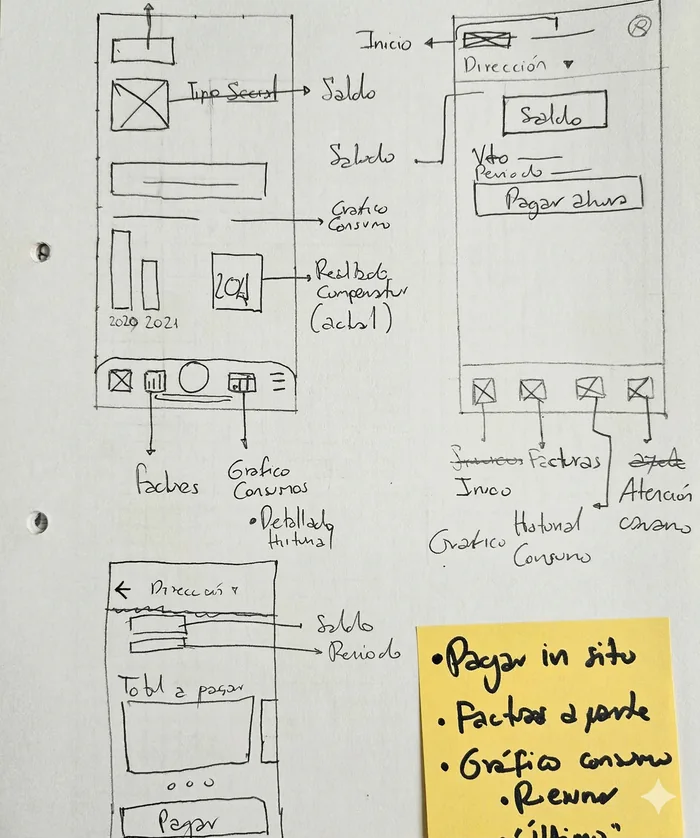
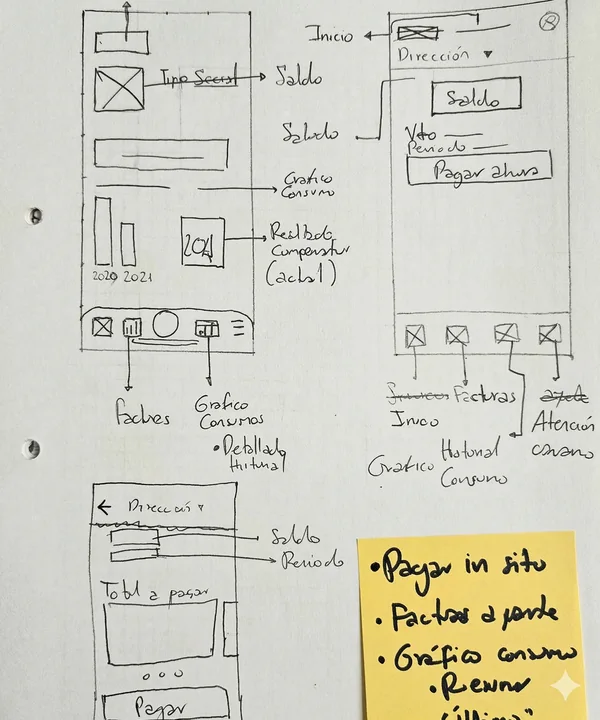
update

diff --git a/edelap.html b/edelap.html
@@ -49,7 +49,7 @@
 </script>
 <link rel="preload" href="assets/fonts/geist-var-latin.woff2" as="font" type="font/woff2" crossorigin>
 <link rel="preload" href="assets/fonts/inter-var-latin.woff2" as="font" type="font/woff2" crossorigin>
-<link rel="stylesheet" href="styles.css?v=16">
+<link rel="stylesheet" href="styles.css?v=17">
 <link rel="preload" href="assets/ed-shader-poster.webp" as="image" type="image/webp">
 </head>
 <body>
@@ -140,9 +140,9 @@
       <article class="ed-method" id="ed-m-sort">
         <div class="ed-method-head reveal"><p class="label">Card sorting</p><h3 class="t-h3">The menu didn’t match how people group things</h3><p>39 participants sorted 12 account features into 6 categories. Their groups didn’t match the existing navigation, which backed a full rework. Bills and payments was the clearest group: every participant put “Download invoice” there.</p></div>
         <figure class="ed-fig reveal"><div class="scroll-x ed-matrix-wrap" data-scroll data-label="Card sorting results" style="--min-mobile:760px">
-              <table class="ed-matrix"><caption class="sr-only">Card sorting results: share of participants who put each feature in each category</caption>
-              <thead><tr><th scope="col">Feature</th><th scope="col">Supply</th><th scope="col">Bills &amp; Payments</th><th scope="col">Technical Support</th><th scope="col">Customer Service</th><th scope="col">Energy Advisor</th><th scope="col">Cost Simulator</th></tr></thead><tbody><tr><th scope="row">Consumption</th><td style="--v:0.71">71%</td><td><span class="sr-only">No value</span></td><td><span class="sr-only">No value</span></td><td><span class="sr-only">No value</span></td><td style="--v:0.29">29%</td><td><span class="sr-only">No value</span></td></tr><tr><th scope="row">Supply</th><td style="--v:0.71">71%</td><td><span class="sr-only">No value</span></td><td style="--v:0.29">29%</td><td><span class="sr-only">No value</span></td><td><span class="sr-only">No value</span></td><td><span class="sr-only">No value</span></td></tr><tr><th scope="row">Address &amp; ID</th><td style="--v:0.43">43%</td><td><span class="sr-only">No value</span></td><td style="--v:0.14">14%</td><td style="--v:0.29">29%</td><td><span class="sr-only">No value</span></td><td style="--v:0.14">14%</td></tr><tr><th scope="row">Account Statement</th><td style="--v:0.43">43%</td><td><span class="sr-only">No value</span></td><td style="--v:0.14">14%</td><td style="--v:0.43">43%</td><td><span class="sr-only">No value</span></td><td><span class="sr-only">No value</span></td></tr><tr><th scope="row">Amount Due (Total)</th><td style="--v:0.43">43%</td><td style="--v:0.43">43%</td><td><span class="sr-only">No value</span></td><td><span class="sr-only">No value</span></td><td style="--v:0.14">14%</td><td><span class="sr-only">No value</span></td></tr><tr><th scope="row">Download Invoice</th><td><span class="sr-only">No value</span></td><td style="--v:1.00">100%</td><td><span class="sr-only">No value</span></td><td><span class="sr-only">No value</span></td><td><span class="sr-only">No value</span></td><td><span class="sr-only">No value</span></td></tr><tr><th scope="row">Digital Invoice</th><td><span class="sr-only">No value</span></td><td style="--v:0.86">86%</td><td><span class="sr-only">No value</span></td><td><span class="sr-only">No value</span></td><td style="--v:0.14">14%</td><td><span class="sr-only">No value</span></td></tr><tr><th scope="row">Direct Debit</th><td style="--v:0.14">14%</td><td style="--v:0.71">71%</td><td><span class="sr-only">No value</span></td><td style="--v:0.14">14%</td><td><span class="sr-only">No value</span></td><td><span class="sr-only">No value</span></td></tr><tr><th scope="row">Last Invoice</th><td style="--v:0.14">14%</td><td style="--v:0.71">71%</td><td><span class="sr-only">No value</span></td><td><span class="sr-only">No value</span></td><td><span class="sr-only">No value</span></td><td style="--v:0.14">14%</td></tr><tr><th scope="row">Last Invoice Period</th><td style="--v:0.14">14%</td><td style="--v:0.71">71%</td><td><span class="sr-only">No value</span></td><td style="--v:0.14">14%</td><td><span class="sr-only">No value</span></td><td><span class="sr-only">No value</span></td></tr><tr><th scope="row">Amount Due by Cutoff Date</th><td style="--v:0.29">29%</td><td style="--v:0.57">57%</td><td><span class="sr-only">No value</span></td><td style="--v:0.14">14%</td><td><span class="sr-only">No value</span></td><td><span class="sr-only">No value</span></td></tr><tr><th scope="row">Consumption Chart</th><td style="--v:0.29">29%</td><td><span class="sr-only">No value</span></td><td><span class="sr-only">No value</span></td><td><span class="sr-only">No value</span></td><td style="--v:0.43">43%</td><td style="--v:0.29">29%</td></tr></tbody></table>
-            </div><figcaption>Share of participants who put each feature in each category. The stronger the tint, the more people agreed.</figcaption></figure>
+              <table class="ed-matrix ed-matrix--figma"><caption class="sr-only">Card sorting results: share of participants who put each feature in each category</caption>
+              <thead><tr><td></td><th scope="col">Supply</th><th scope="col">Bills &amp; Payments</th><th scope="col">Technical Support</th><th scope="col">Customer Service</th><th scope="col">Energy Advisor</th><th scope="col">Cost Simulator</th></tr></thead><tbody><tr><th scope="row">Consumption</th><td class="is-top">71%</td><td class="is-empty"><span class="sr-only">No value</span></td><td class="is-empty"><span class="sr-only">No value</span></td><td class="is-empty"><span class="sr-only">No value</span></td><td>29%</td><td class="is-empty"><span class="sr-only">No value</span></td></tr><tr><th scope="row">Supply</th><td class="is-top">71%</td><td class="is-empty"><span class="sr-only">No value</span></td><td>29%</td><td class="is-empty"><span class="sr-only">No value</span></td><td class="is-empty"><span class="sr-only">No value</span></td><td class="is-empty"><span class="sr-only">No value</span></td></tr><tr><th scope="row">Address &amp; ID</th><td class="is-top">43%</td><td class="is-empty"><span class="sr-only">No value</span></td><td>14%</td><td>29%</td><td class="is-empty"><span class="sr-only">No value</span></td><td>14%</td></tr><tr><th scope="row">Account Statement</th><td class="is-tie">43%</td><td class="is-empty"><span class="sr-only">No value</span></td><td>14%</td><td class="is-tie">43%</td><td class="is-empty"><span class="sr-only">No value</span></td><td class="is-empty"><span class="sr-only">No value</span></td></tr><tr><th scope="row">Amount Due (Total)</th><td class="is-tie">43%</td><td class="is-tie">43%</td><td class="is-empty"><span class="sr-only">No value</span></td><td class="is-empty"><span class="sr-only">No value</span></td><td>14%</td><td class="is-empty"><span class="sr-only">No value</span></td></tr><tr><th scope="row">Download Invoice</th><td class="is-empty"><span class="sr-only">No value</span></td><td class="is-top">100%</td><td class="is-empty"><span class="sr-only">No value</span></td><td class="is-empty"><span class="sr-only">No value</span></td><td class="is-empty"><span class="sr-only">No value</span></td><td class="is-empty"><span class="sr-only">No value</span></td></tr><tr><th scope="row">Digital Invoice</th><td class="is-empty"><span class="sr-only">No value</span></td><td class="is-top">86%</td><td class="is-empty"><span class="sr-only">No value</span></td><td class="is-empty"><span class="sr-only">No value</span></td><td>14%</td><td class="is-empty"><span class="sr-only">No value</span></td></tr><tr><th scope="row">Direct Debit</th><td>14%</td><td class="is-top">71%</td><td class="is-empty"><span class="sr-only">No value</span></td><td>14%</td><td class="is-empty"><span class="sr-only">No value</span></td><td class="is-empty"><span class="sr-only">No value</span></td></tr><tr><th scope="row">Last Invoice</th><td>14%</td><td class="is-top">71%</td><td class="is-empty"><span class="sr-only">No value</span></td><td class="is-empty"><span class="sr-only">No value</span></td><td class="is-empty"><span class="sr-only">No value</span></td><td>14%</td></tr><tr><th scope="row">Last Invoice Period</th><td>14%</td><td class="is-top">71%</td><td class="is-empty"><span class="sr-only">No value</span></td><td>14%</td><td class="is-empty"><span class="sr-only">No value</span></td><td class="is-empty"><span class="sr-only">No value</span></td></tr><tr><th scope="row">Amount Due by Cutoff Date</th><td>29%</td><td class="is-top">57%</td><td class="is-empty"><span class="sr-only">No value</span></td><td>14%</td><td class="is-empty"><span class="sr-only">No value</span></td><td class="is-empty"><span class="sr-only">No value</span></td></tr><tr><th scope="row">Consumption Chart</th><td>29%</td><td class="is-empty"><span class="sr-only">No value</span></td><td class="is-empty"><span class="sr-only">No value</span></td><td class="is-empty"><span class="sr-only">No value</span></td><td class="is-top">43%</td><td>29%</td></tr></tbody></table>
+            </div><figcaption>Share of participants per category. Blue marks each feature’s top category; light blue, a tie.</figcaption></figure>
       </article>
 
       <article class="ed-method" id="ed-m-heur">
@@ -199,7 +199,7 @@
           <figcaption>Paper first: where the balance, the payment and the consumption chart would sit.</figcaption>
         </figure>
         <figure class="ed-fig reveal" style="--d:80ms">
-          <div class="ed-wires" data-wires><svg role="img" aria-label="Wireframes: three mobile screens and the desktop version, in grey with green primary actions" class="ed-wire-svg" viewBox="688 140 548 690" fill="none" xmlns="http://www.w3.org/2000/svg" xmlns:xlink="http://www.w3.org/1999/xlink">
+          <div class="ed-wires" data-wires><svg role="img" aria-label="Wireframes: three mobile screens and the desktop version, in grey with green primary actions" class="ed-wire-svg" viewBox="708 156 508 668" fill="none" xmlns="http://www.w3.org/2000/svg" xmlns:xlink="http://www.w3.org/1999/xlink">
 
 <g id="wf-Edelap_Case_Study" clip-path="url(#wf-clip0_0_1)">
 
@@ -566,6 +566,6 @@
 <script src="thumbs.js?v=7" defer></script>
 <script src="hero-shader.js?v=3" defer></script>
 <script src="section-shader.js?v=3" defer></script>
-<script src="edelap.js?v=2" defer></script>
+<script src="edelap.js?v=1" defer></script>
 </body>
 </html>

diff --git a/styles.css b/styles.css
@@ -2050,3 +2050,30 @@ body:has(#view-edelap) .contact-email:hover { border-color: var(--ed-sky-lite); 
 /* consumption cards: sized to their content, like the Figma component */
 .ed-cons { grid-template-columns: repeat(2, max-content); }
 .ed-con { width: 168px; padding: 16px 18px; }
+
+/* ---------- Edelap, round 3 ---------- */
+/* card sorting, as in the Figma: a plain grid, white cells, very light grey for empty ones, blue only for each row's top answer */
+.ed-matrix--figma { border-collapse: collapse; border-spacing: 0; font: 400 14px/1.3 var(--font-body); }
+.ed-matrix--figma thead td { background: #fff; }
+.ed-matrix--figma thead th { padding: 14px 12px; text-align: left; font: 600 14px/1.3 var(--font-body); color: var(--text-strong); background: #fff; }
+.ed-matrix--figma tbody th { padding: 0 16px; height: 46px; font: 500 14px/1.3 var(--font-body); color: var(--text-strong); background: #fff; }
+.ed-matrix--figma td, .ed-matrix--figma tbody th { border-top: 1px solid #e6e8ec; }
+.ed-matrix--figma td { height: 46px; padding: 0 12px; text-align: left; border-radius: 0; color: var(--text-strong); background: #fff; box-shadow: none !important; border-left: 1px solid #e6e8ec; }
+.ed-matrix--figma td.is-empty { background: #f6f7f9; }
+.ed-matrix--figma td.is-top { background: #98beea; }
+.ed-matrix--figma td.is-tie { background: #d1e2f5; }
+.ed-matrix--figma td[style] { background: initial; }
+.ed-matrix-wrap:has(.ed-matrix--figma) { overflow: hidden; border-radius: 16px; box-shadow: 0 0 0 1px #e6e8ec; }
+
+/* paper and wireframes: same media height, captions on the same line */
+.ed-paper { grid-template-columns: auto auto; justify-content: center; align-items: start; gap: 24px clamp(40px, 6vw, 96px); }
+.ed-paper > .ed-fig { width: max-content; max-width: 100%; }
+.ed-paper .ed-fig figcaption { max-width: 440px; }
+.ed-sketch img { width: auto; height: 540px; max-height: none; max-width: 100%; object-fit: initial; }
+.ed-wires svg { width: auto; height: 540px; max-height: none; max-width: 100%; }
+@media (max-width: 1023.98px) {
+  .ed-paper { grid-template-columns: minmax(0, 1fr); justify-items: center; }
+  .ed-paper > .ed-fig { width: 100%; }
+  .ed-sketch img, .ed-wires svg { width: 100%; height: auto; }
+}
+.ed-matrix--figma td, .ed-matrix--figma th { vertical-align: middle; } .ed-matrix--figma { table-layout: fixed; } .ed-matrix--figma tbody th, .ed-matrix--figma thead td:first-child { width: 22%; }

diff --git a/index.html b/index.html
@@ -50,7 +50,7 @@
 <link rel="preload" href="assets/fonts/geist-var-latin.woff2" as="font" type="font/woff2" crossorigin>
 <link rel="preload" href="assets/fonts/inter-var-latin.woff2" as="font" type="font/woff2" crossorigin>
 <link rel="preload" href="assets/hero-shader-poster.webp" as="image" type="image/webp">
-<link rel="stylesheet" href="styles.css?v=16">
+<link rel="stylesheet" href="styles.css?v=17">
 <script type="application/ld+json">
 {
   "@context": "https://schema.org",

diff --git a/in-progress.html b/in-progress.html
@@ -33,7 +33,7 @@
 <link rel="preload" href="assets/hero-shader-poster.webp" as="image" type="image/webp">
 <link rel="preload" href="assets/fonts/geist-var-latin.woff2" as="font" type="font/woff2" crossorigin>
 <link rel="preload" href="assets/fonts/inter-var-latin.woff2" as="font" type="font/woff2" crossorigin>
-<link rel="stylesheet" href="styles.css?v=16">
+<link rel="stylesheet" href="styles.css?v=17">
 </head>
 <body>
 <a class="skip" href="#main">Skip to content</a>

diff --git a/resume.html b/resume.html
@@ -48,7 +48,7 @@
 <link rel="preload" href="assets/fonts/geist-var-latin.woff2" as="font" type="font/woff2" crossorigin>
 <link rel="preload" href="assets/fonts/inter-var-latin.woff2" as="font" type="font/woff2" crossorigin>
 <link rel="preconnect" href="https://cdnjs.cloudflare.com" crossorigin>
-<link rel="stylesheet" href="styles.css?v=16">
+<link rel="stylesheet" href="styles.css?v=17">
 </head>
 <body>
 <a class="skip" href="#main">Skip to content</a>

diff --git a/conduiit.html b/conduiit.html
@@ -49,7 +49,7 @@
 </script>
 <link rel="preload" href="assets/fonts/geist-var-latin.woff2" as="font" type="font/woff2" crossorigin>
 <link rel="preload" href="assets/fonts/inter-var-latin.woff2" as="font" type="font/woff2" crossorigin>
-<link rel="stylesheet" href="styles.css?v=16">
+<link rel="stylesheet" href="styles.css?v=17">
 <link rel="preload" href="assets/cd-shader-poster.webp" as="image" type="image/webp">
 </head>
 <body>

diff --git a/policy-manager.html b/policy-manager.html
@@ -49,7 +49,7 @@
 </script>
 <link rel="preload" href="assets/fonts/geist-var-latin.woff2" as="font" type="font/woff2" crossorigin>
 <link rel="preload" href="assets/fonts/inter-var-latin.woff2" as="font" type="font/woff2" crossorigin>
-<link rel="stylesheet" href="styles.css?v=16">
+<link rel="stylesheet" href="styles.css?v=17">
 <link rel="preload" href="assets/pm-shader-poster.webp" as="image" type="image/webp">
 </head>
 <body>

diff --git a/404.html b/404.html
@@ -38,7 +38,7 @@
 </script>
 <link rel="preload" href="assets/fonts/geist-var-latin.woff2" as="font" type="font/woff2" crossorigin>
 <link rel="preload" href="assets/fonts/inter-var-latin.woff2" as="font" type="font/woff2" crossorigin>
-<link rel="stylesheet" href="styles.css?v=16">
+<link rel="stylesheet" href="styles.css?v=17">
 </head>
 <body>
 <a class="skip" href="#main">Skip to content</a>
